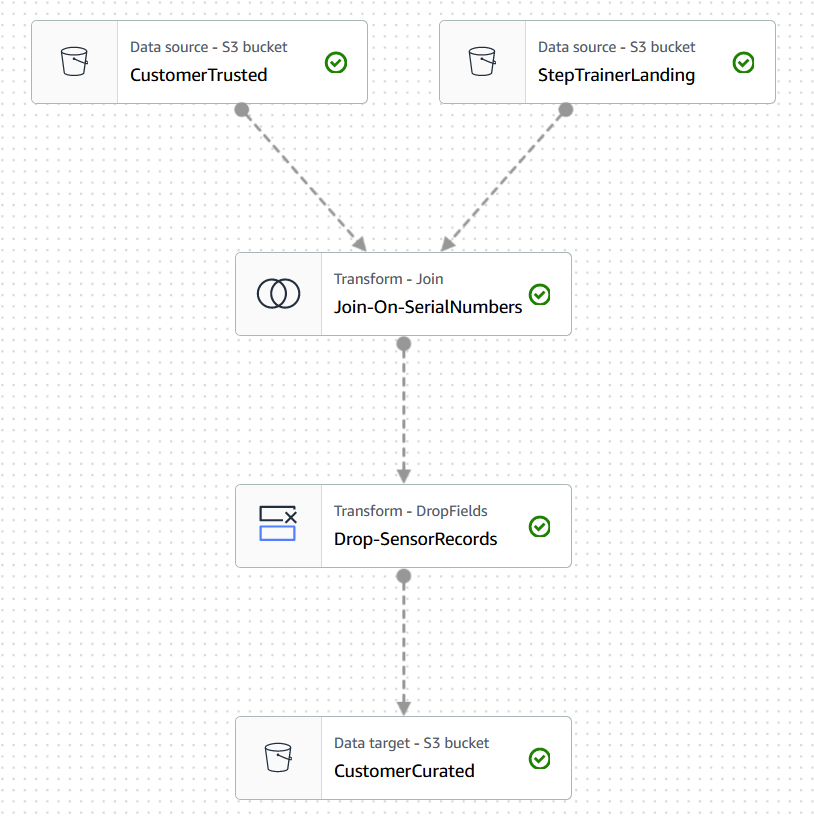
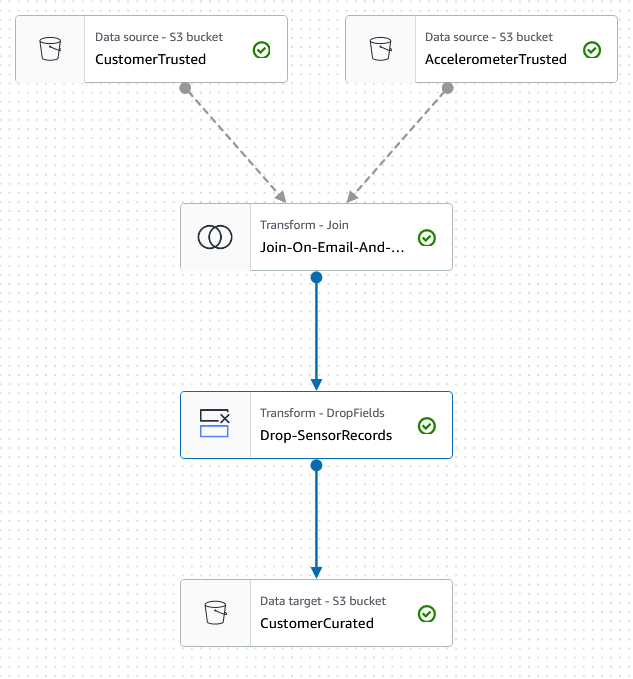
Revisited version

diff --git a/project/README.md b/project/README.md
@@ -16,7 +16,14 @@ The raw data coming from 3 various sources are stored on AWS S3 in the following
 ## Python Scripts using Spark
 
 ### Customer Landind To Trusted
-The `./stedi/customer_landing_to_trusted.py` script is a Glue job that applies a privacy policy on cutomer's data by filtering out the customers that did not give their approval to use their data for research purposes (i.e. the field `shareWithResearchAsOfDate` is set and is not zero).
+Sanitizes the customer data from the Website (Landing Zone) to create **customer_trusted** data that only stores the customer records:
+- who agreed to share their data for **research purposes** and,
+- who have **accelerometer data** available.
+
+The corresponding Glue job is `./stedi/customer_landing_to_trusted.py`. It joins the customer and accelerometer landing tables on emails, and it applies a privacy policy on customer's data by filtering out the customers that did not give their approval to use their data for research purposes (i.e. the field `shareWithResearchAsOfDate` is set and is not zero).
+
+**[INFO]** The join with the accelerometer data is doing much more than what is initiallyty asked in the question. However, it avoids ending up with empty tables at the end of the project   
+
 
 ![Alt text](./img/CustomerLandingToTrusted.png "Fig.1")<p align="center">*Fig.1 - Customer Landing To Trusted*</p>
 
@@ -29,9 +36,12 @@ The `./stedi/accelerometer_landing_to_trusted_zone.py` script sanitizes the acce
 
 ###  Customer Curated Zone
 The ` stedi/customer_trusted_to_curated.py` script 
-sanitizes the trusted customer data to only include customers who have accelerometer data and have agreed to share their data for research. The Glue job consists of the following transforms:
-- a **JOIN** of trusted customers with step-trainer records based on `serialNumber` ==  `serialNumber`
-- a **DROP** of the unused record fields ('timeStamp', 'sensorReadingTime', distanceFromObject').
+sanitizes the trusted customer data to only include customers who have accelerometer data and have agreed to share their data for research.
+The Glue job consists of the following transforms:
+- a **JOIN** of trusted customers with accelerator records based on `email` ==  `user`
+- a **DROP** of the unused record fields (i.e. the accelerometer data).
+
+**Note:** The Glue job that is created here is redundant with the way I create the `customer_trusted` table at the beginning of the project. This job was re-created here to align with the requested deliverables.   
 
 ![Alt text](./img/CustomerCurated.png "Fig.3")<p align="center">*Fig.3 - Customer Curated Zone*</p>
 

diff --git a/README.md b/README.md
@@ -1,37 +1,4 @@
 # Purpose of This Repo
 
-This repo is meant to be used to keep things organized during content development and act as the source of truth for all projects and exercises related to this course.
+This repo contains some exercises and a project related to the *Spark and Data Lakes* part of the Udacity nanodegree program referred to as *Data Engineering with AWS*.
 
-## Folder Structure
-
-### Lesson Folder
-
-This repo contains a folder for each `lesson` and one `project` folder.
-
-Example
-```
-lesson-1-hello
-lesson-2-world
-lesson-3-foo
-lesson-4-bar
-project
-```
-
-Each `lesson` folder is named using the naming convention of `lesson-#-name-of-lesson`.
-
-Example
-```
-lesson-1-hello
-```
-
-Four lesson folders have been provided as a template; However, you may need to add more or possibly use less than four depending on what is needed.
-
-If you require an additional lesson folder, you can make a copy of the folder and paste it into the root directory.
-
-### Exercises Folder
-
-Each `lesson` folder contains an `exercises` folder. This `exercises` folder should contain all files and instructions necessary for the exercises along with the solution. The solutions for these exercises will be shared with students. See the `README` in the `exercises` folder for information about folder structure.
-
-### Project Folder
-
-The `project` folder should contain all files and instructions necessary for setup. If possible, a set of instructions should be provided for both Udacity workspaces and a way to work locally (for both MacOS and Windows OS). At a minimum, one set of instructions should be provided. A `README` template has been provided in the project folder. This template layout should be used to write your README.
